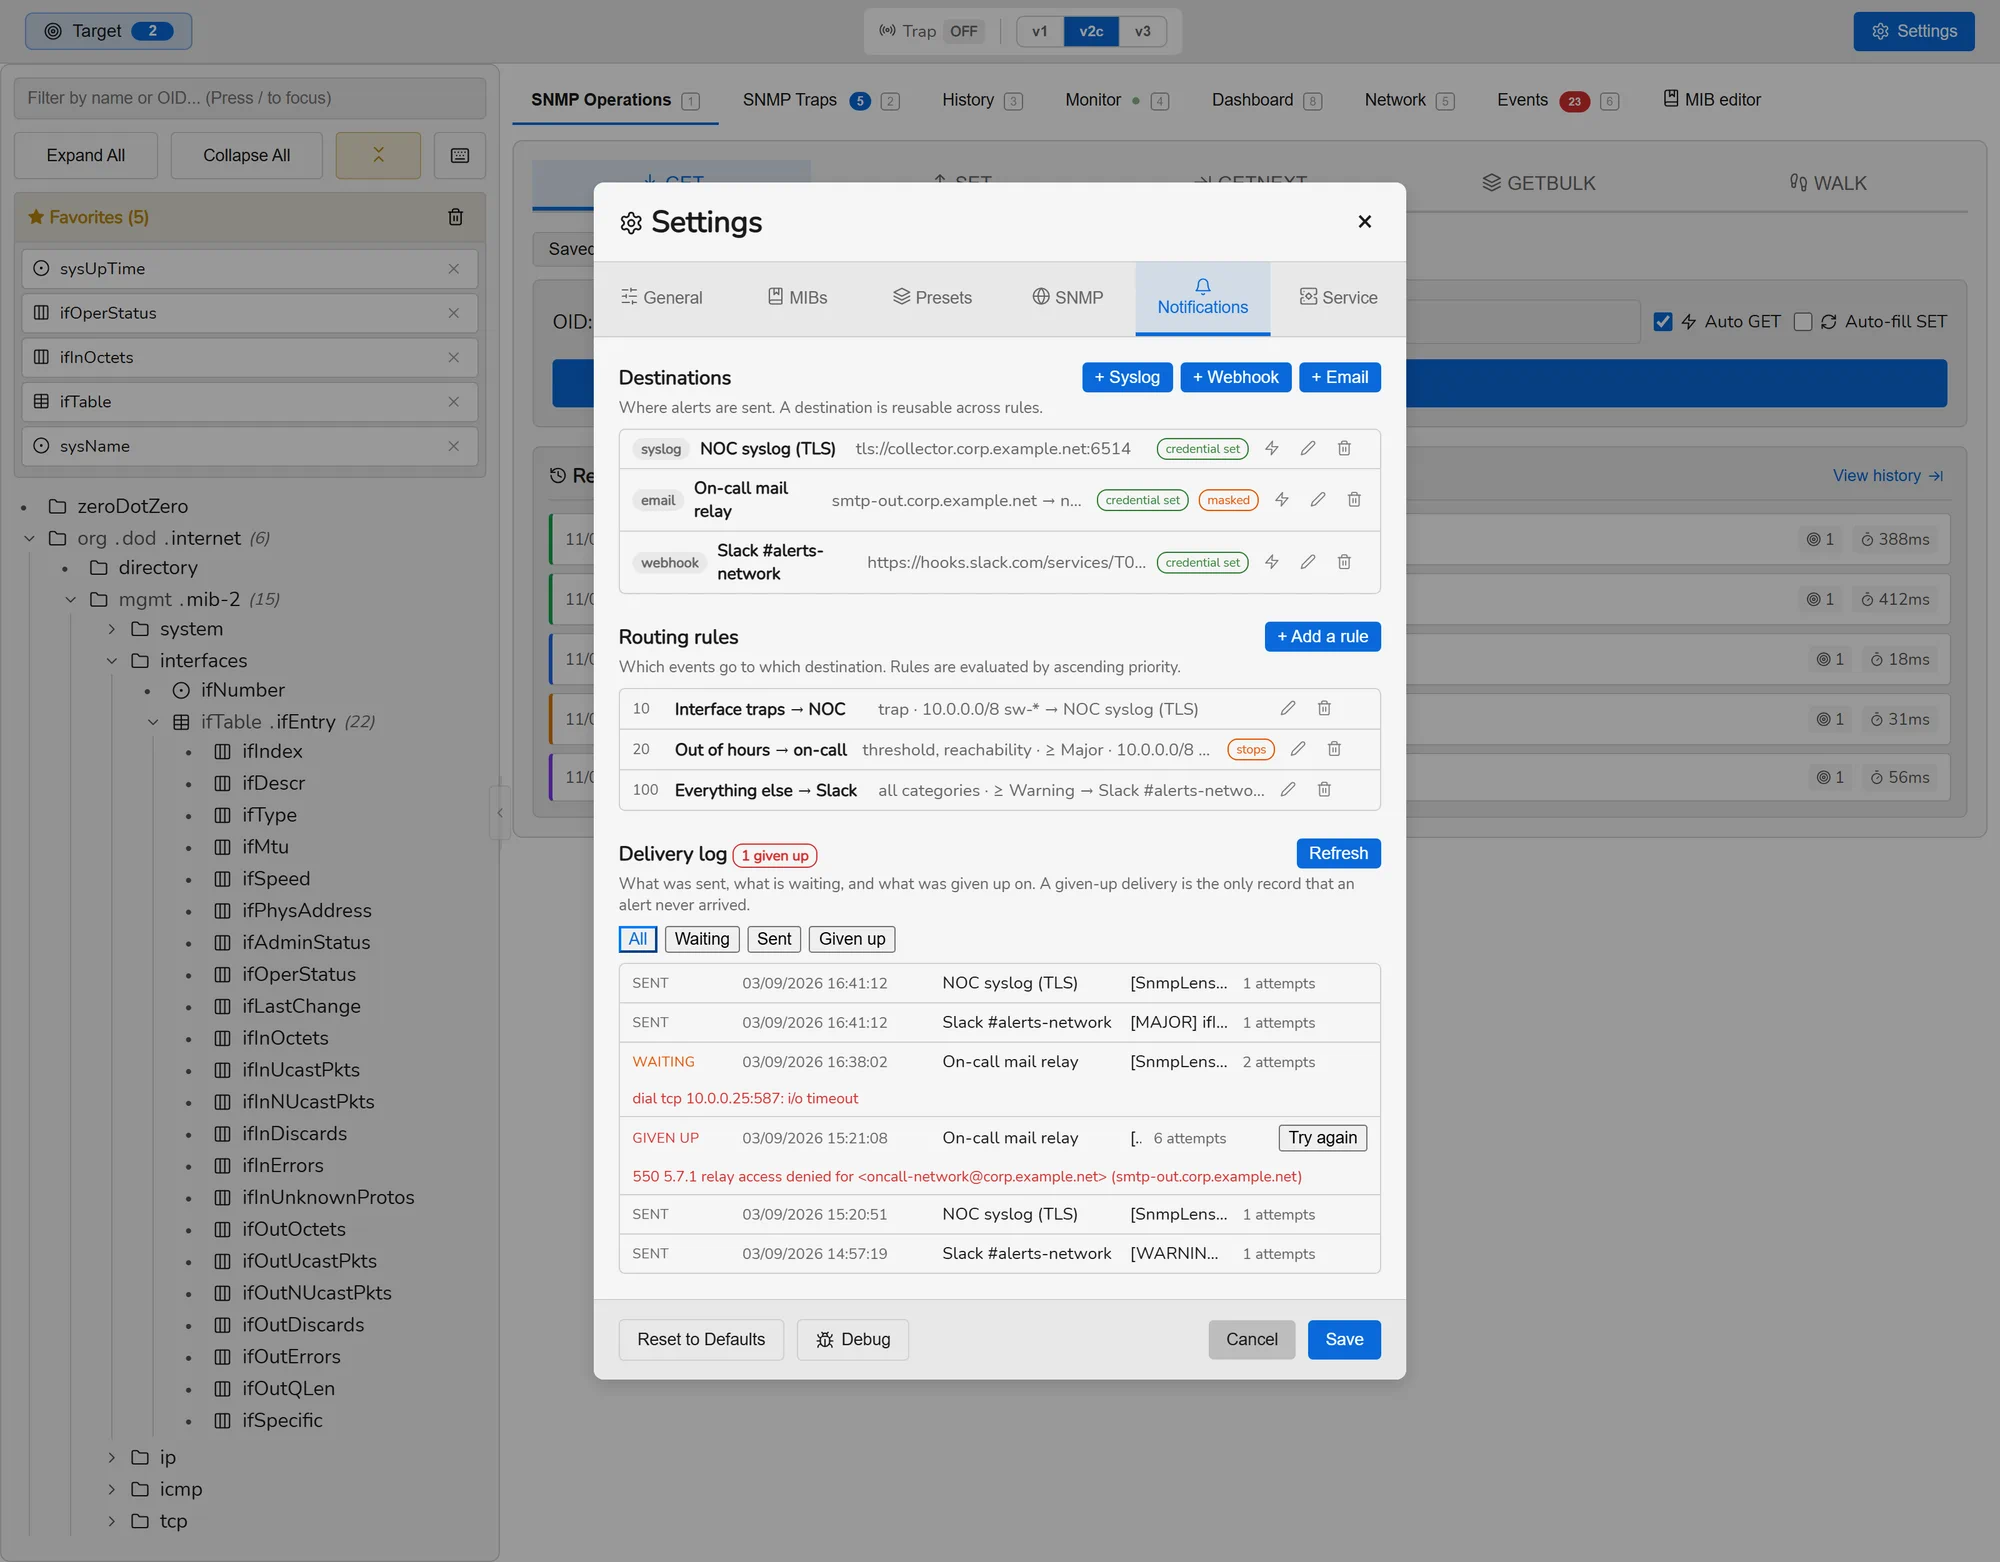
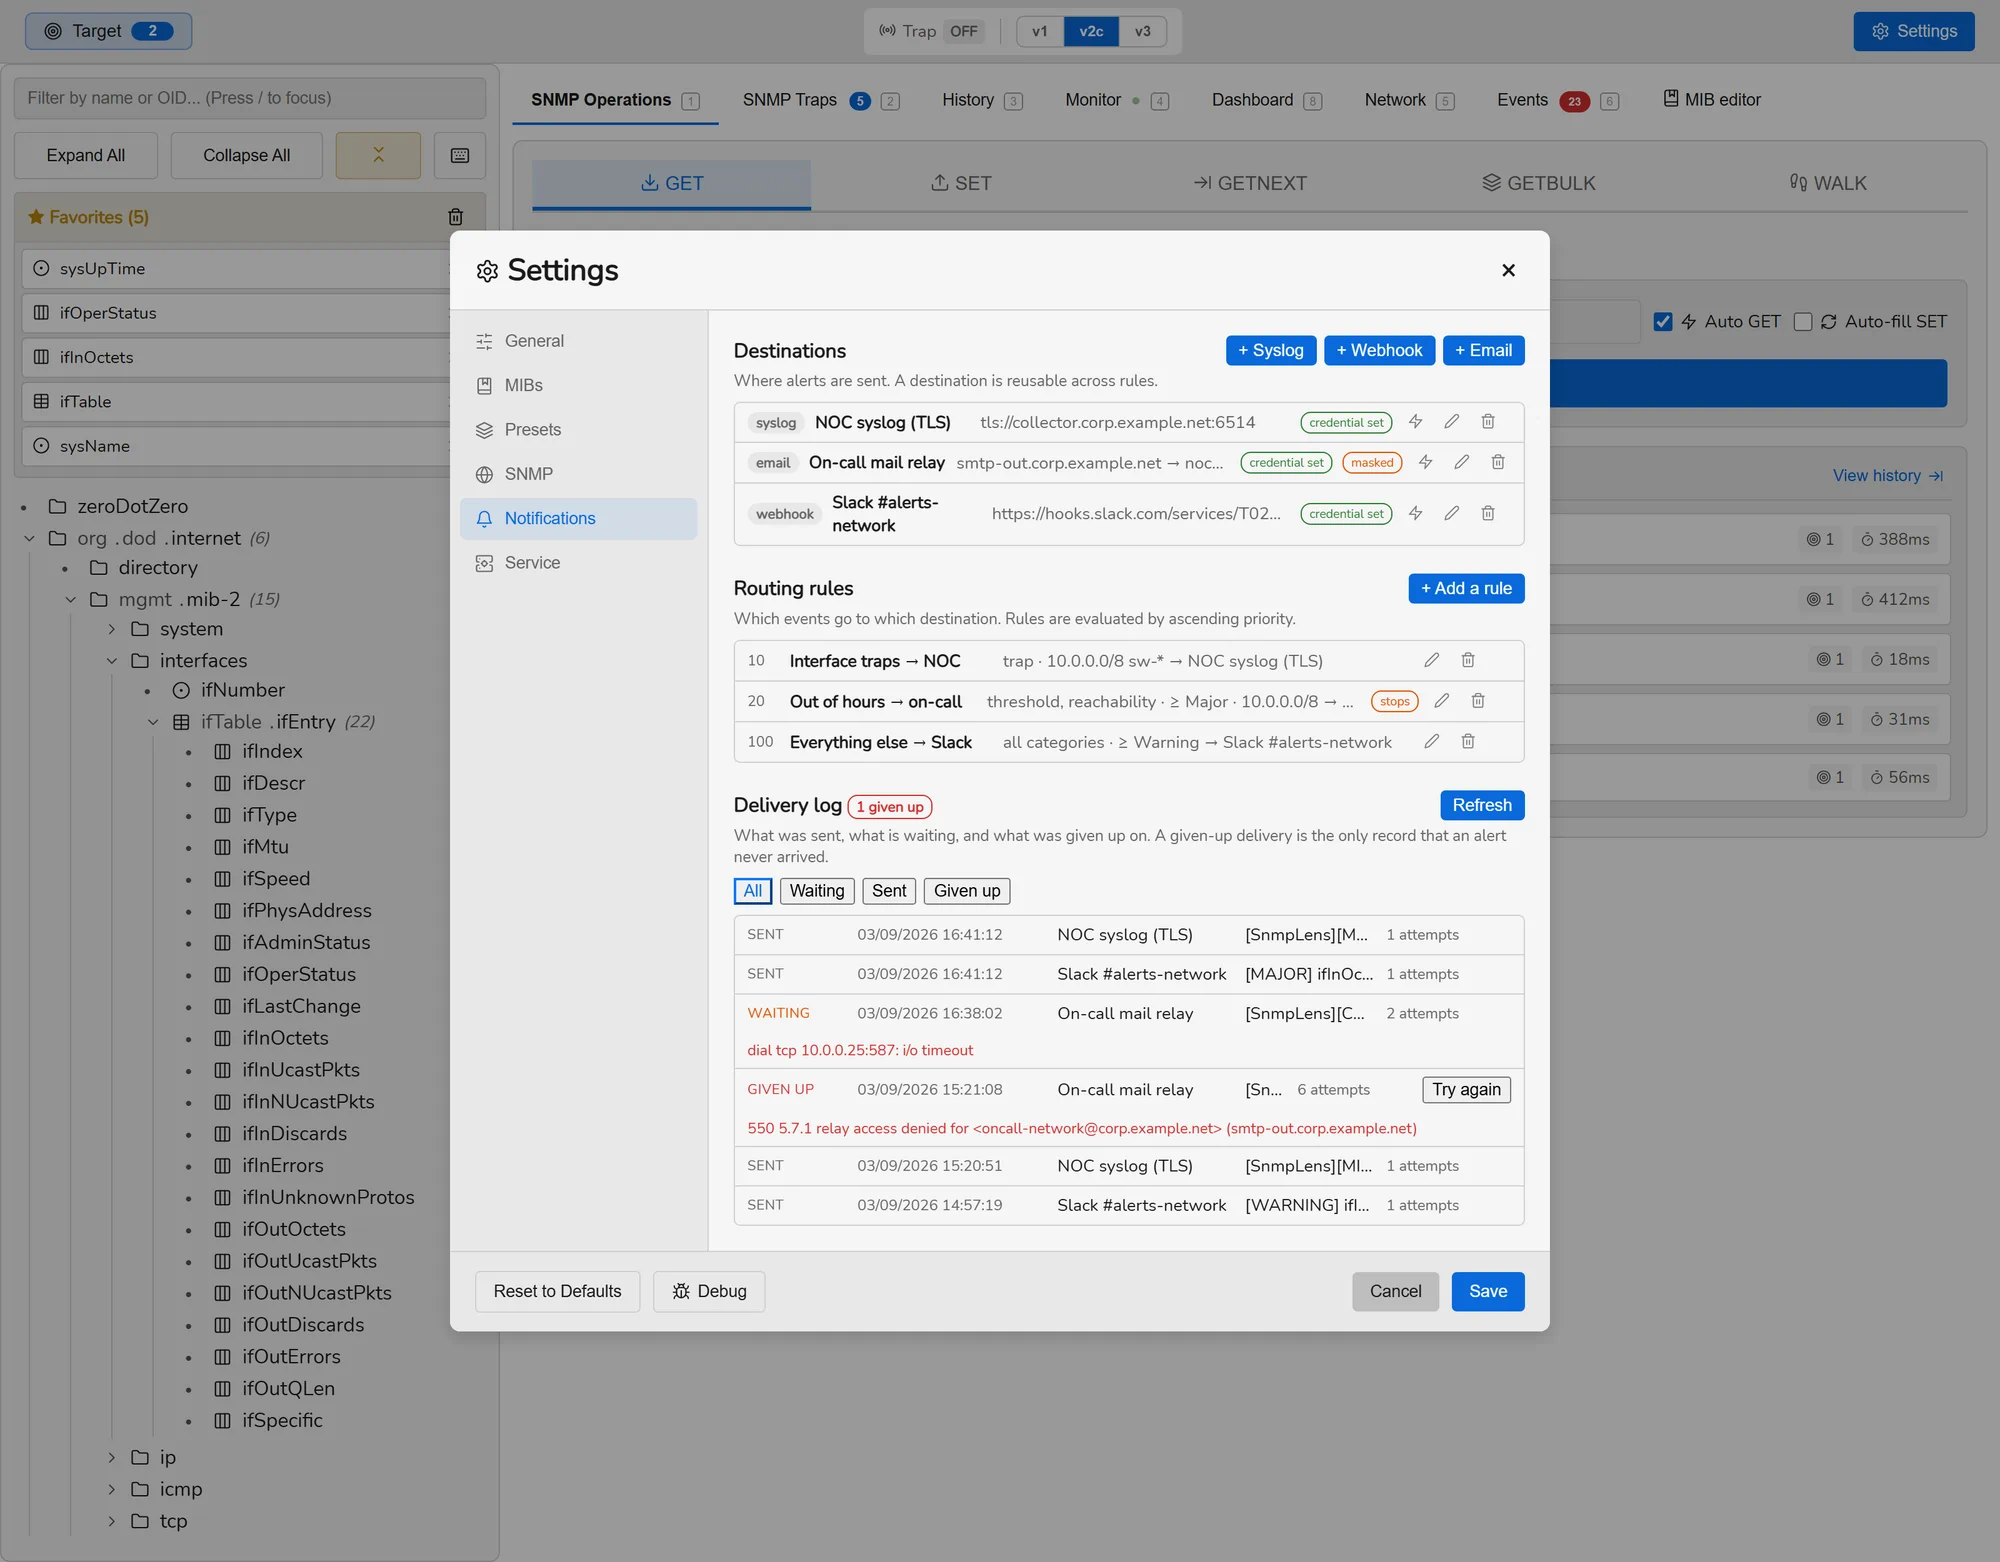
Move the settings navigation into a column
Six sections shared one row of a 650 px dialog — 108 px each for an icon
and a word, and "Notifications" had not fitted for a while. A seventh
would have made it 93.

The sections are now a column down the left, and they are declared once
instead of six times: they were six hand-written buttons and the next one
was going to be a seventh copy of the same eight lines. The list carries
no English, only an id and an icon; the label is looked up in the markup,
the way preset.WidgetKinds serves i18n key suffixes rather than prose.

A NAV rather than a tablist. `role="tablist"` promises arrow-key movement
between the tabs, and declaring the role without implementing it is worse
for a screen reader than not declaring it at all. A settings sidebar is a
list of places to go: `aria-current` says which one you are on, and every
browser and reader already knows what that means.

The dialog goes from 650 to 880 px, because a 190 px column has to come
from somewhere — and the notification rules and the delivery log wanted
the width anyway. Its height is now bounded on the dialog rather than on
the content, since two children scroll independently; `min-height: 0` on
the row is what lets them, a flex item's default being "as tall as my
content", which defeats every overflow underneath it. Below 760 px the
column becomes a scrollable row rather than a squeezed one, which is the
thing this change exists to stop.

No transition on the selection, and that is measured rather than a taste.
[…]

Changed region(s): [[0.217, 0.0922, 0.775, 0.8912]]

diff --git a/frontend/src/SettingsModal.svelte b/frontend/src/SettingsModal.svelte
@@ -16,6 +16,21 @@
 
   export let showDebug = false;
 
+  // The sections, declared once instead of six times.
+  //
+  // They were six hand-written buttons, and the seventh was going to be a
+  // seventh copy of the same eight lines. The label is looked up in the markup
+  // rather than stored here, so the list carries no English at all — the same
+  // reason preset.WidgetKinds serves i18n key suffixes.
+  const SECTIONS = [
+    { id: 'general', icon: 'sliders-horizontal' },
+    { id: 'mibs', icon: 'book-marked' },
+    { id: 'presets', icon: 'layers' },
+    { id: 'snmp', icon: 'globe' },
+    { id: 'notify', icon: 'bell' },
+    { id: 'service', icon: 'server-cog' },
+  ];
+
   let activeTab = 'general';
   let settings;
   let defaultMibPath = '';
@@ -55,76 +70,52 @@
       <button class="close-btn" on:click={handleCancel}>&times;</button>
     </div>
 
-    <!-- Tab Navigation -->
-    <div class="tabs">
-      <button
-        class="tab"
-        class:active={activeTab === 'general'}
-        on:click={() => activeTab = 'general'}
-      >
-        <Icon name="sliders-horizontal" size={15} /> {$_('settings.tabs.general')}
-      </button>
-      <button
-        class="tab"
-        class:active={activeTab === 'mibs'}
-        on:click={() => activeTab = 'mibs'}
-      >
-        <Icon name="book-marked" size={15} /> {$_('settings.tabs.mibs')}
-      </button>
-      <button
-        class="tab"
-        class:active={activeTab === 'presets'}
-        on:click={() => activeTab = 'presets'}
-      >
-        <Icon name="layers" size={15} /> {$_('settings.tabs.presets')}
-      </button>
-      <button
-        class="tab"
-        class:active={activeTab === 'snmp'}
-        on:click={() => activeTab = 'snmp'}
-      >
-        <Icon name="globe" size={15} /> {$_('settings.tabs.snmp')}
-      </button>
-      <button
-        class="tab"
-        class:active={activeTab === 'notify'}
-        on:click={() => activeTab = 'notify'}
-      >
-        <Icon name="bell" size={15} /> {$_('settings.tabs.notify')}
-      </button>
-      <button
-        class="tab"
-        class:active={activeTab === 'service'}
-        on:click={() => activeTab = 'service'}
-      >
-        <Icon name="server-cog" size={15} /> {$_('settings.tabs.service')}
-      </button>
-    </div>
+    <!-- A NAV, not a tablist.
+         `role="tablist"` promises arrow-key navigation between the tabs, and
+         declaring the role without implementing it is worse for a screen
+         reader than not declaring it. A settings sidebar is a list of places
+         to go: `aria-current` says which one you are on, and every browser and
+         reader already knows what to do with it. -->
+    <div class="settings-body">
+      <nav class="nav" aria-label={$_('settings.title')}>
+        {#each SECTIONS as section (section.id)}
+          <button
+            class="nav-item"
+            class:active={activeTab === section.id}
+            aria-current={activeTab === section.id ? 'true' : undefined}
+            on:click={() => (activeTab = section.id)}
+          >
+            <Icon name={section.icon} size={15} />
+            <span>{$_(`settings.tabs.${section.id}`)}</span>
+          </button>
+        {/each}
+      </nav>
 
-    <div class="modal-content">
-      {#if activeTab === 'general'}
-        <GeneralSettings bind:settings />
-      {/if}
+      <div class="modal-content">
+        {#if activeTab === 'general'}
+          <GeneralSettings bind:settings />
+        {/if}
 
-      {#if activeTab === 'mibs'}
-        <MibSettings {defaultMibPath} />
-      {/if}
+        {#if activeTab === 'mibs'}
+          <MibSettings {defaultMibPath} />
+        {/if}
 
-      {#if activeTab === 'presets'}
-        <PresetSettings />
-      {/if}
+        {#if activeTab === 'presets'}
+          <PresetSettings />
+        {/if}
 
-      {#if activeTab === 'snmp'}
-        <SnmpSettings bind:settings />
-      {/if}
+        {#if activeTab === 'snmp'}
+          <SnmpSettings bind:settings />
+        {/if}
 
-      {#if activeTab === 'notify'}
-        <NotifySettings />
-      {/if}
+        {#if activeTab === 'notify'}
+          <NotifySettings />
+        {/if}
 
-      {#if activeTab === 'service'}
-        <ServiceSettings />
-      {/if}
+        {#if activeTab === 'service'}
+          <ServiceSettings />
+        {/if}
+      </div>
     </div>
 
     <div class="modal-actions">
@@ -166,10 +157,13 @@
     padding: 0;
     border-radius: 8px;
     width: 90%;
-    max-width: 650px;
+    max-width: 880px;
     box-shadow: 0 5px 15px var(--shadow-color-strong);
     display: flex;
     flex-direction: column;
+    /* Bounded here rather than on the content, now that two children scroll. */
+    max-height: 88vh;
+    overflow: hidden;
   }
 
   .modal-header {
@@ -192,40 +186,83 @@
     cursor: pointer;
   }
 
-  /* Tabs */
-  .tabs {
+  /* The navigation column, and the row that holds it beside the content. */
+  .settings-body {
     display: flex;
-    background-color: var(--bg-lighter-color);
-    border-bottom: 1px solid var(--border-color);
-  }
-
-  .tab {
+    /* min-height: 0 is what lets the content scroll instead of stretching the
+       dialog past the viewport: a flex item's default min-height is auto,
+       which means "as tall as my content" and defeats every overflow below. */
+    min-height: 0;
     flex: 1;
-    padding: 12px 16px;
-    background: transparent;
-    border: none;
-    border-bottom: 3px solid transparent;
-    color: var(--text-muted);
-    cursor: pointer;
-    font-weight: 500;
-    transition: all 0.2s;
   }
 
-  .tab:hover {
+  .nav {
+    display: flex;
+    flex-direction: column;
+    flex: 0 0 190px;
+    padding: 8px;
+    gap: 2px;
+    background-color: var(--bg-lighter-color);
+    border-right: 1px solid var(--border-color);
+    overflow-y: auto;
+  }
+
+  .nav-item {
+    display: flex;
+    align-items: center;
+    gap: 9px;
+    padding: 9px 12px;
+    border: none;
+    border-radius: 5px;
+    background: transparent;
+    color: var(--text-muted);
+    font-weight: 500;
+    text-align: left;
+    cursor: pointer;
+    /* No transition. A 150 ms fade on the selection is invisible in use
+       and it made the SITE CAPTURES non-deterministic: three of four
+       showed the accent still on the item being left and not yet on the
+       one being chosen, while the outline — which does not animate —
+       was already correct. A selection should look immediate anyway. */
+  }
+
+  .nav-item:hover {
     background-color: var(--hover-overlay);
     color: var(--text-color);
   }
 
-  .tab.active {
+  .nav-item.active {
     color: var(--accent-color);
-    border-bottom-color: var(--accent-color);
     background-color: var(--accent-subtle-medium);
   }
 
   .modal-content {
+    flex: 1;
+    min-width: 0;
+    min-height: 0;
     padding: 20px;
-    max-height: 70vh;
     overflow-y: auto;
+  }
+
+  /* Narrow enough that a 190 px column is a third of the dialog. The sections
+     go back to a row — scrollable rather than squeezed, which is the thing
+     this change exists to stop. */
+  @media (max-width: 760px) {
+    .settings-body {
+      flex-direction: column;
+    }
+
+    .nav {
+      flex: 0 0 auto;
+      flex-direction: row;
+      overflow-x: auto;
+      border-right: none;
+      border-bottom: 1px solid var(--border-color);
+    }
+
+    .nav-item {
+      flex: 0 0 auto;
+    }
   }
 
   .modal-actions {
